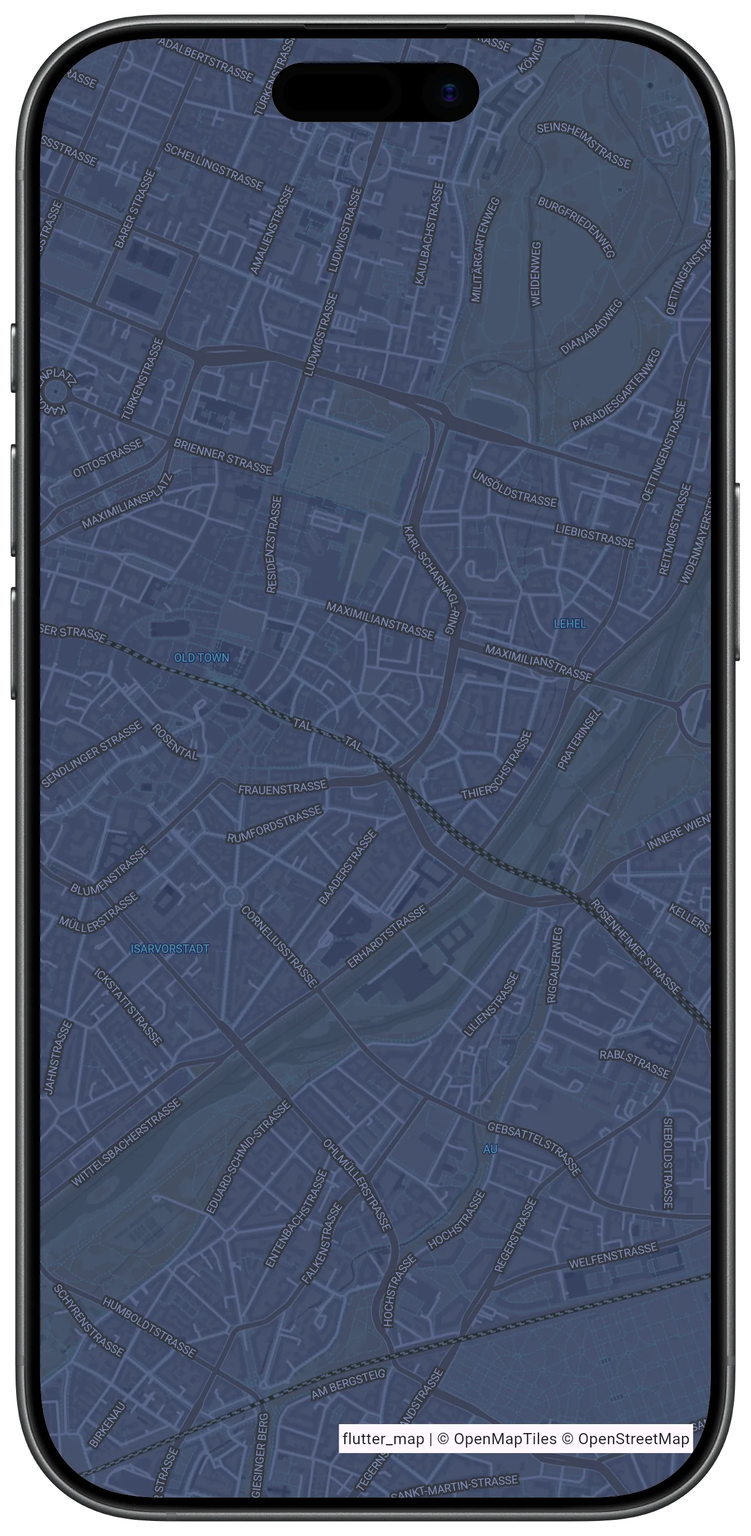
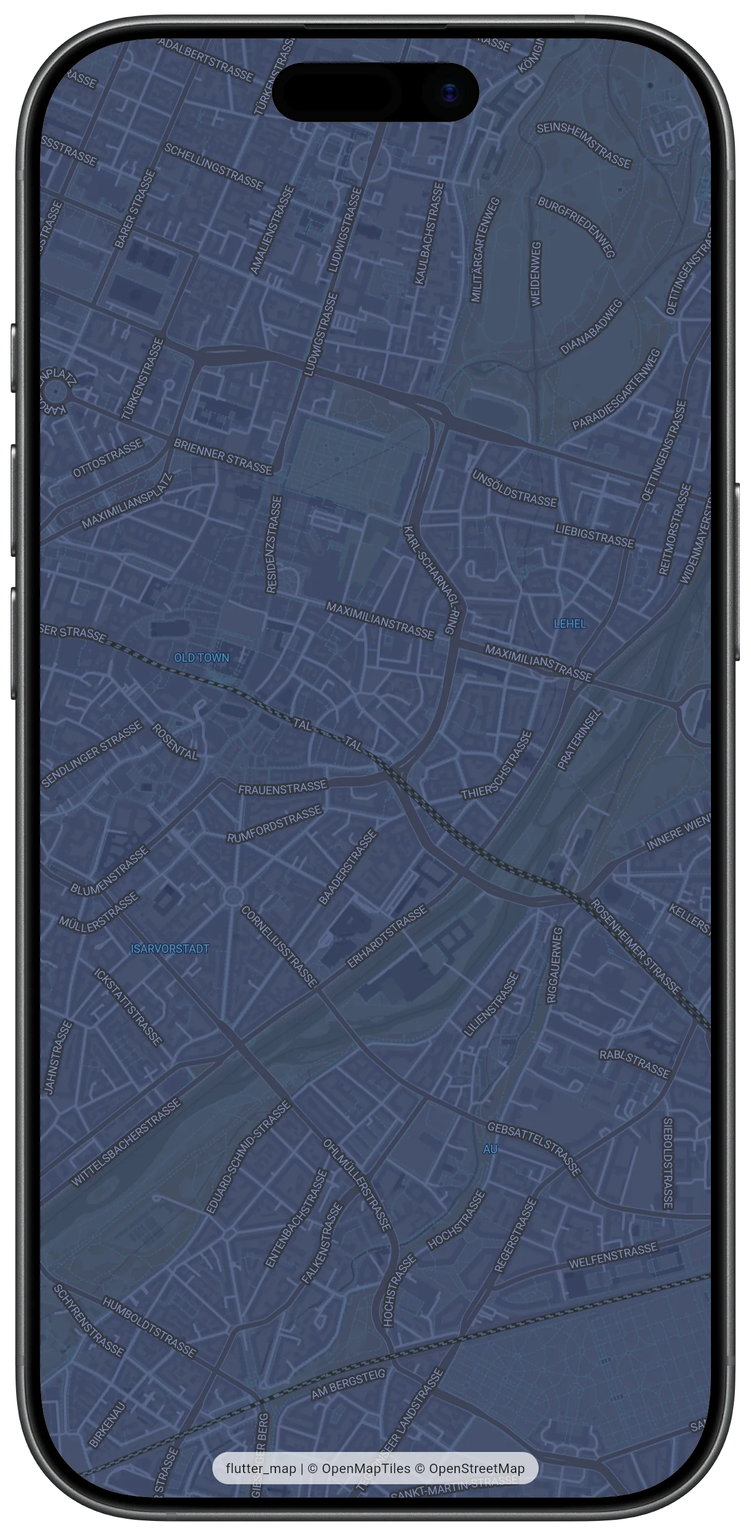
Restyle the example attribution as a centered translucent pill
Rounded corners, ~70% white background, centered at the bottom of the
map — replacing SimpleAttributionWidget pinned flush to the bottom-right
(and the SafeArea inset that kept it out of the bezel corner in the
pub.dev screenshots, which are regenerated with the new look).

Changed region(s): [[0.28, 0.9036, 0.9333, 0.9659]]

diff --git a/example/lib/main.dart b/example/lib/main.dart
@@ -94,14 +94,31 @@ class _VectorMapPageState extends State<VectorMapPage> {
               ),
               // Whatever the style's sources declare — never a hardcoded
               // provider name. Most providers' terms require showing it.
-              // The minimum inset keeps it clear of rounded screen corners
-              // and the iOS home indicator.
               if (style.attributions.isNotEmpty)
-                SafeArea(
-                  minimum: const EdgeInsets.only(right: 16, bottom: 40),
-                  child: SimpleAttributionWidget(
-                    source: Text(
-                      style.attributions.map((a) => a.text).join(' · '),
+                Align(
+                  alignment: Alignment.bottomCenter,
+                  child: Padding(
+                    padding: const EdgeInsets.all(12),
+                    child: DecoratedBox(
+                      decoration: BoxDecoration(
+                        color: Colors.white.withValues(alpha: 0.7),
+                        borderRadius: BorderRadius.circular(16),
+                      ),
+                      child: Padding(
+                        padding: const EdgeInsets.symmetric(
+                          horizontal: 12,
+                          vertical: 6,
+                        ),
+                        child: Text(
+                          'flutter_map | © '
+                          '${style.attributions.map((a) => a.text).join(' · ')}',
+                          textAlign: TextAlign.center,
+                          style: const TextStyle(
+                            fontSize: 12,
+                            color: Colors.black87,
+                          ),
+                        ),
+                      ),
                     ),
                   ),
                 ),

diff --git a/screenshots/AGENTS.md b/screenshots/AGENTS.md
@@ -54,12 +54,12 @@ pipeline is key-free.
      `center: [11.5815, 48.135]`, `zoom: 15`. (OpenFreeMap's `dark`
      style renders too flat for a gallery image; Fiord reads better.)
 
-   For the framed portrait shots, additionally set compact `attribution`
-   strings on the sources (`OpenMapTiles © OpenStreetMap`, hillshade
-   `Esri`) — the style source's own attribution wins over the TileJSON's,
-   `SimpleAttributionWidget` prepends `flutter_map | © `, and the shorter
-   line clears the bezel's rounded corner. OpenFreeMap doesn't require
-   attribution; OpenMapTiles and OSM do.
+   Additionally set compact `attribution` strings on the sources
+   (`OpenMapTiles © OpenStreetMap`, hillshade `Esri`) — the style
+   source's own attribution wins over the TileJSON's, the example
+   prepends `flutter_map | © `, and the short line keeps the example's
+   centered attribution pill on a single line. OpenFreeMap doesn't
+   require attribution; OpenMapTiles and OSM do.
 
 3. **Capture with Playwright** (chromium): copy the shot's JSON to
    `build/web/shot-style.json`, open `http://localhost:8123/` in a fresh

diff --git a/CHANGELOG.md b/CHANGELOG.md
@@ -21,9 +21,9 @@ pub.dev page gets gallery screenshots.
   in an iPhone bezel: Munich in OpenFreeMap Liberty, Zermatt with an Esri
   hillshade raster blended into the vector style, and Munich in the dark
   Fiord style.
-- 🧹 The example app keeps its attribution clear of rounded screen
-  corners and the iOS home indicator instead of pinning it flush to the
-  bottom-right edge.
+- 🧹 The example app draws its attribution as a rounded translucent
+  pill centered at the bottom of the map instead of a flush white bar
+  in the bottom-right corner.
 
 ## 2.2.0
 
